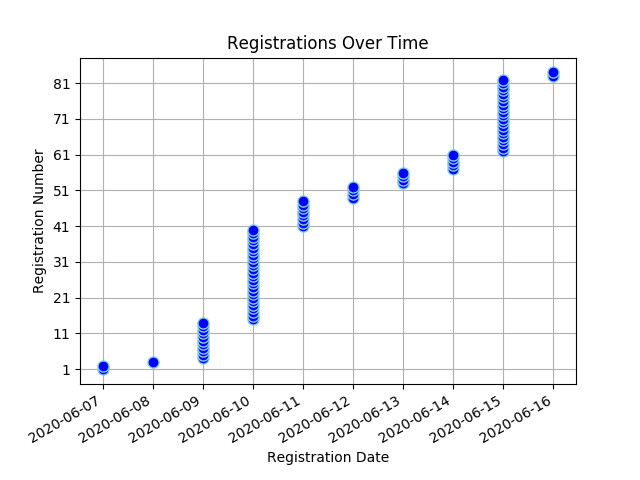
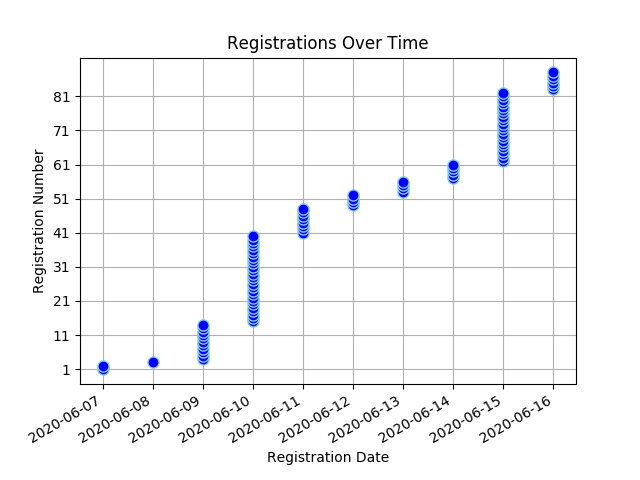
Registree stats backup on Tue Jun 16 10:16:31 SAST 2020

diff --git a/content/virtual_conf_stats/_index.md b/content/virtual_conf_stats/_index.md
@@ -16,7 +16,7 @@ draft: false
 </head>
 <body>
 <h1 style="color: #000000;">Virtual Convention Registration Stats</h1>
-<ul><li><strong>Number of Registrees</strong>: 84</li>
+<ul><li><strong>Number of Registrees</strong>: 88</li>
 </ul><a href="/docs/virtual_convention_stats.csv">Download registration details here</a>
 <h2>Registrees</h2>
 <table id="registreeTable" class="tablesorter" border="1" padding=1>
@@ -32,6 +32,7 @@ Club
 </thead>
 <tbody>
 <tr><td>Abramsohn, Alan</td><td>Milnerton</td></tr>
+<tr><td>Abramsohn, Janine</td><td>Sea Point</td></tr>
 <tr><td>Botha, Lynette</td><td>Cowies Hill</td></tr>
 <tr><td>BRAGA BORGES, JOSE</td><td>MALMESBURY</td></tr>
 <tr><td>Bull, Christopher (Chris)</td><td>Johannesburg - The Wilds</td></tr>
@@ -47,6 +48,8 @@ Club
 <tr><td>Gabriel, Anastasia</td><td>Vereeniging</td></tr>
 <tr><td>Gabriel, Mervyn</td><td>Vereeniging</td></tr>
 <tr><td>Gerhard, Bernd</td><td>Wilro Park</td></tr>
+<tr><td>graham, mike</td><td>Nelspruit</td></tr>
+<tr><td>Graham, Valerie</td><td>Nelspruit</td></tr>
 <tr><td>Grater, Viv</td><td>Newlands</td></tr>
 <tr><td>Haywood, Barbara</td><td>Eden 410W</td></tr>
 <tr><td>Herzfeld, Evelyn</td><td>Edenvale</td></tr>
@@ -78,6 +81,7 @@ Club
 <tr><td>Mouton, Rene</td><td>Eden Lions Club</td></tr>
 <tr><td>Murray, Gary</td><td>Vereeniging</td></tr>
 <tr><td>Murray, Suzanne</td><td>Vereeniging Lions Club</td></tr>
+<tr><td>Nel, Pieter</td><td>George</td></tr>
 <tr><td>Newlands, Mike</td><td>Port Alfred</td></tr>
 <tr><td>Nulliah, Ramona</td><td>Durban Host</td></tr>
 <tr><td>Olivier, Debra</td><td>Sedgefield</td></tr>
